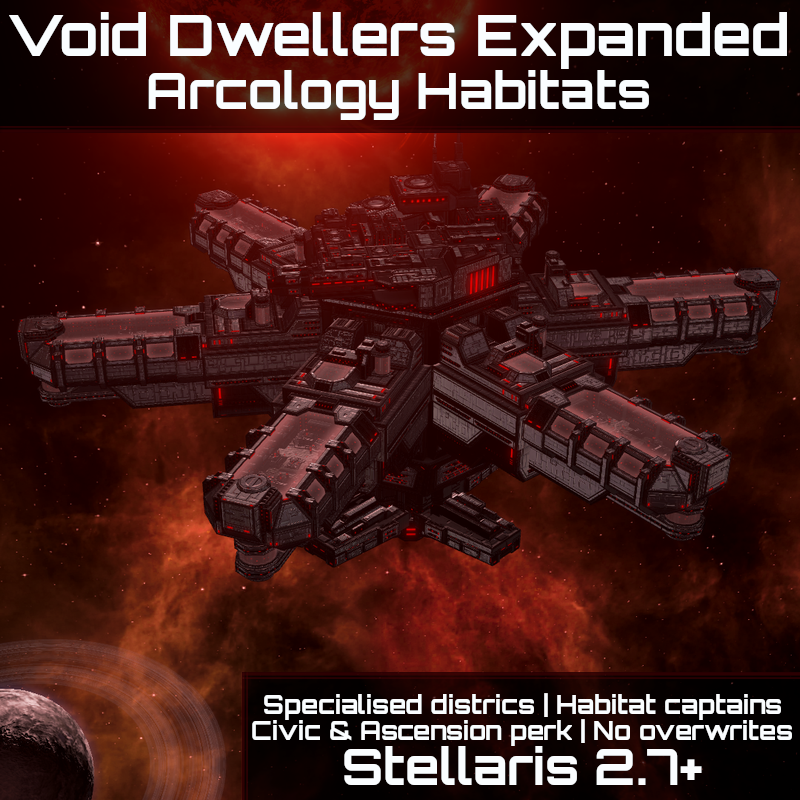
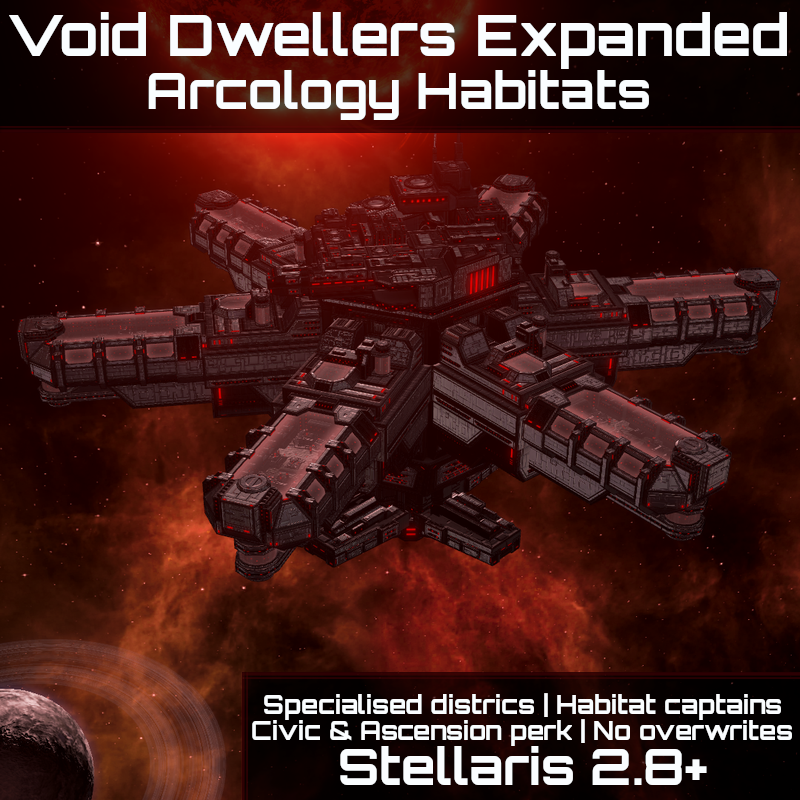
Checked and marked as compatible with 2.8.
Backwards compatible with 2.7. If you want to play this mod on 2.6, 2.5 or earlier you have to use Stellaris version checker .

Changed region(s): [[0.4062, 0.9375, 0.875, 1.0]]

diff --git a/README.md b/README.md
@@ -9,7 +9,9 @@ Habitat Captains (and gestalt equivalent) increase unity output. The more habita
 Addons:
 [list][*][url=https://steamcommunity.com/sharedfiles/filedetails/?id=2066377400]Void Dwellers traits: Ring World & modded habitats fix[/url][/list]
 Languages:
-[list][*][url=https://steamcommunity.com/sharedfiles/filedetails/?id=2131014154]Chinese 汉语[/url], translation courtesy of vesel099[/list]
+[list][*][url=https://steamcommunity.com/sharedfiles/filedetails/?id=2131014154]Chinese (汉语)[/url], translation courtesy of vesel099
+[*]Polish (Polski), integrated
+[/list]
 
 [IMG]https://i.imgur.com/p7Fv1Z6.gif[/IMG]
 
